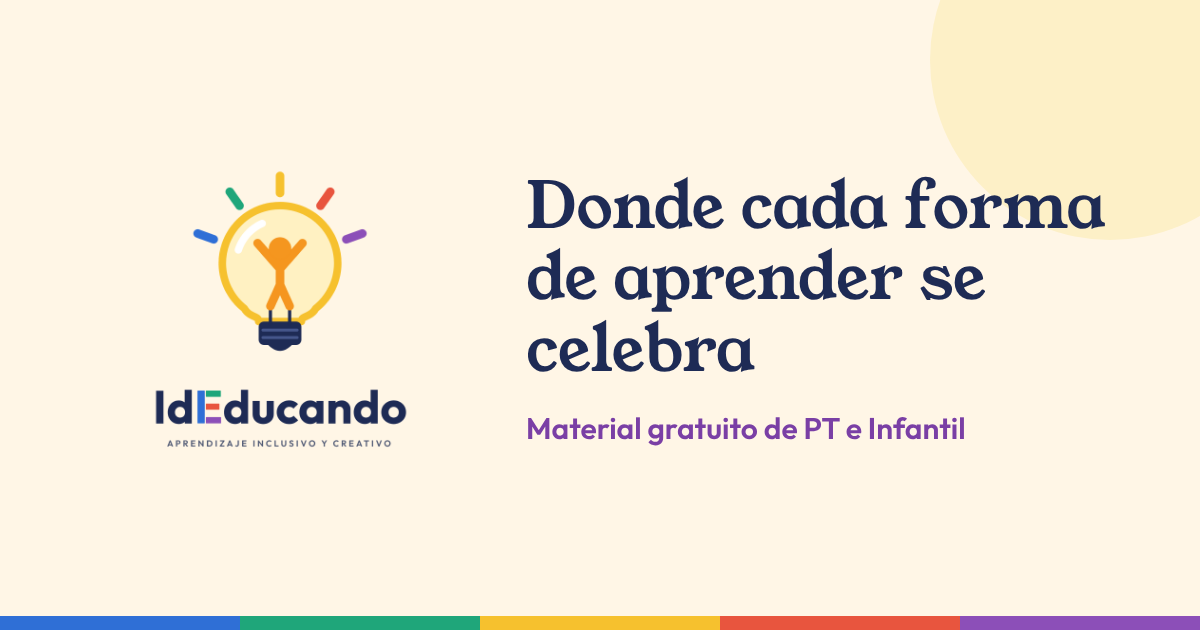
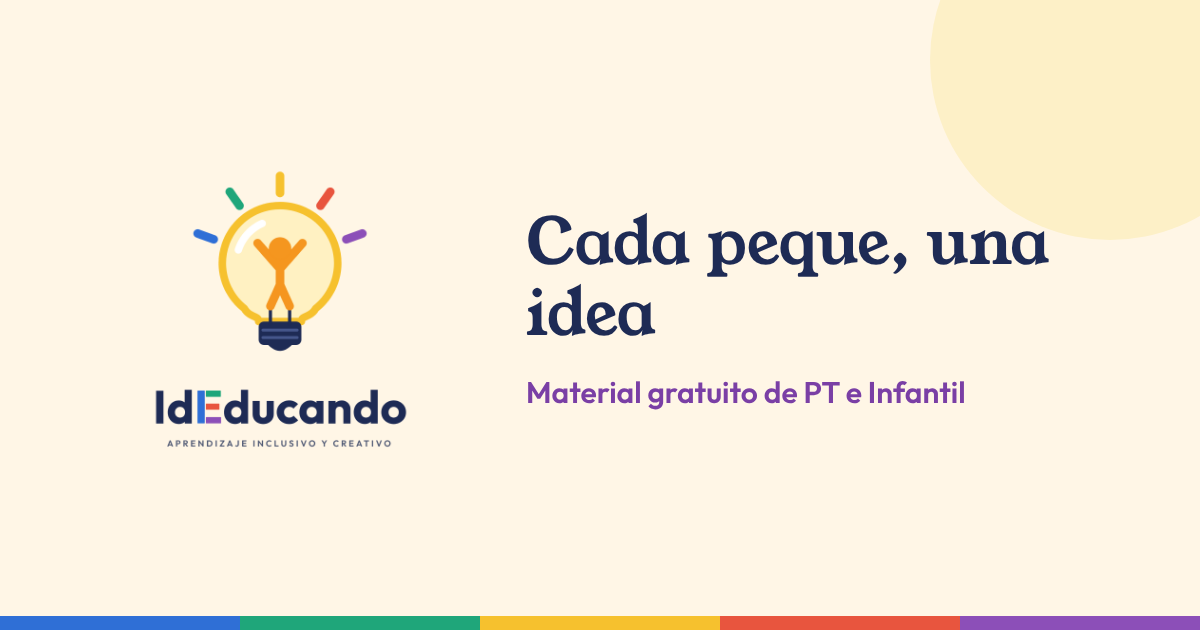
Quita el lema antiguo: la imagen para compartir toma el de los ajustes
La imagen que sale al compartir la web llevaba «Donde cada forma de
aprender se celebra», el lema que José descartó el 19/10/2026. Ahora lee
el lema de src/data/sitio.json, el mismo que enseña la web, y se puede
rehacer sola con «npm run pdf -- og-imagen». El README y el CLAUDE.md
dejan de citar el lema antiguo.

Claude-Session: https://claude.ai/code/session_01LvCTVgJeXJhKxaqYxYQXZc

Changed region(s): [[0.4317, 0.2714, 0.925, 0.7238]]

diff --git a/CLAUDE.md b/CLAUDE.md
@@ -4,7 +4,7 @@
 IdEducando es una academia de oposiciones de maestros (Región de Murcia, convocatoria de 2028, clases desde septiembre de 2027). Mientras tanto, es una web con material gratuito de Pedagogía Terapéutica (PT) e Infantil para docentes de toda España.
 Públicos: seños en activo que buscan material para el aula, y seños y futuras maestras que quieren opositar.
 Nombre: siempre "IdEducando", con la I y la E en mayúscula. Junta "idea" y "educando".
-Subtítulo: Aprendizaje inclusivo y creativo. Lema: Donde cada forma de aprender se celebra.
+Subtítulo: Aprendizaje inclusivo y creativo. Lema: en revisión desde el 19/10/2026; en la web se prueba «Cada peque, una idea» (src/data/sitio.json). El anterior, «Donde cada forma de aprender se celebra», ya no se usa.
 
 ## Marca
 Colores: azul #2F6FD6, verde #1FA67A, coral #E8553E, morado #8C4FB8, amarillo #F6C12E, naranja #F5961F, marino #1E2B55 para el texto y crema #FFF6E6 para los fondos.

diff --git a/README.md b/README.md
@@ -1,6 +1,6 @@
 # Web de IdEducando
 
-*Aprendizaje inclusivo y creativo. Donde cada forma de aprender se celebra.*
+*Aprendizaje inclusivo y creativo.*
 
 Material gratuito de Pedagogía Terapéutica (PT) e Infantil para docentes de toda España, y guías para opositar a Maestros en la Región de Murcia. Todo a 0 €, sin registro y sin seguimiento.
 
